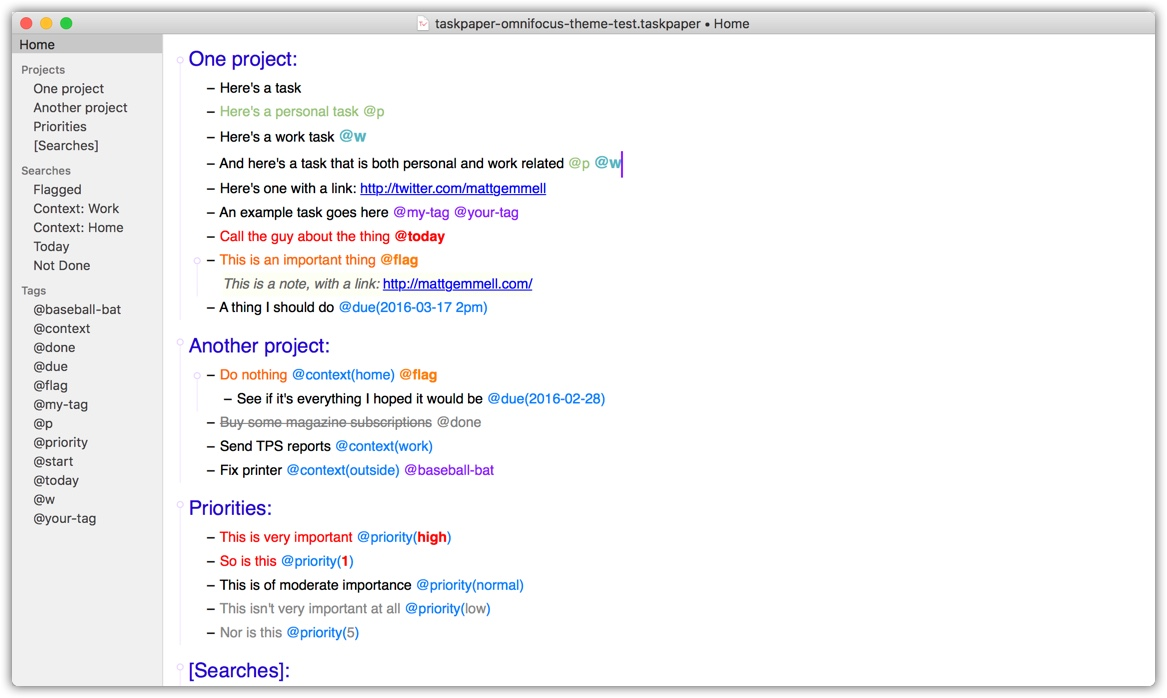
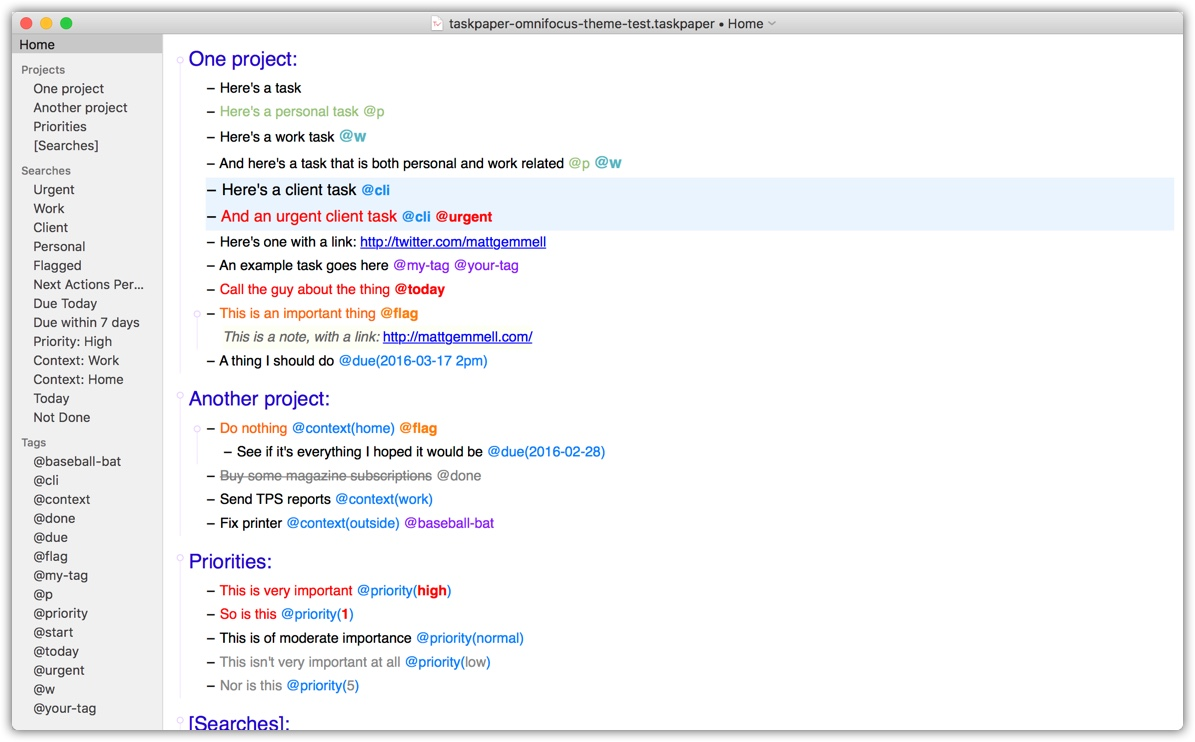
Updated README and screenshot
Added a brief changelog, linked to the local sample file, and updated screenshot

Changed region(s): [[0.0, 0.0, 0.5553, 0.9928], [0.3393, 0.0, 0.6478, 0.0602]]

diff --git a/README.md b/README.md
@@ -10,11 +10,16 @@ The starting point for this theme is Matt Gemmell's _excelent_ Omni-Focus based 
 
 I've also borrowed elements (colors, syntax elements...) from @jasonshanks's excellent [Atom One Dark 2 for TaskPaper 3](https://github.com/jasonshanks/TaskPaper-Atom-One-Dark)
 
+## ChangeLog
+
+- 2018-03-31: Added `@cli` tag (highlighted based on background color) and cleaned up/updated Searches in the sample file
+
 ## Preview
 
 The main changes from Matt's theme is adding a couple of tags (`@p` for Personal tasks and `@w` for Work related ones), and reducing the font size.
+Also added `@cli` tag, highlighted based on background color.
 
-I've taken Matt's sample file (go to his site to find it), and applied the updated theme
+I've copied Matt's sample file and changed it to add lines with the relevant tags etc, and applied the updated theme (my changed version is [here](./taskpaper-omnifocus-theme-test.taskpaper)) and the result is below:
 
 ![Sample Taskpaper](./Preview.jpg)
 
